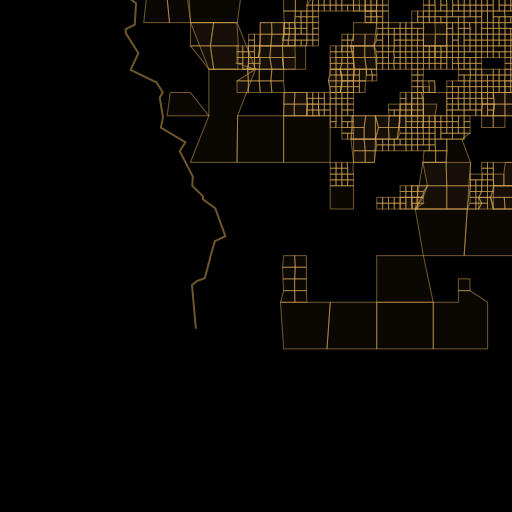
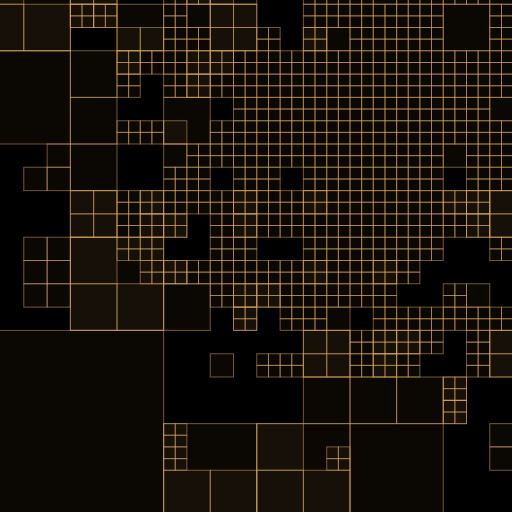
repro-ing the case where we see gaps in the grid and I am not sure why

diff --git a/index.ts b/index.ts
@@ -22,7 +22,19 @@ interface IGeoJsonFormatError extends Error {
 
 function iberville(rawOpts: ICreateCityOpts): Q.IPromise<void> {
     // TODO Show how tweaking all these values changes the output.
-    const opts = _.merge({}, defaultOpts, rawOpts),
+    const opts = _.merge({}, defaultOpts, rawOpts, {
+            lake: {enable: false},
+            river: {enable: false},
+            removeIntersectingElements: false,
+            streetGrid: {
+                minimumBlockSizeKilometers: .3,
+                maxBlockSizeKilometers: Infinity,
+                noiseSubdivisionBaseThreshold: .1,
+
+                perturb: {enabled: false},
+                mergeStreetBlocks: {enabled: false}
+            }
+        }),
         geoJson = createCity(_.omit(opts, 'outFileName')),
         errors = geoJsonHint.hint(geoJson),
         geoJsonHash = md5(JSON.stringify(geoJson));
